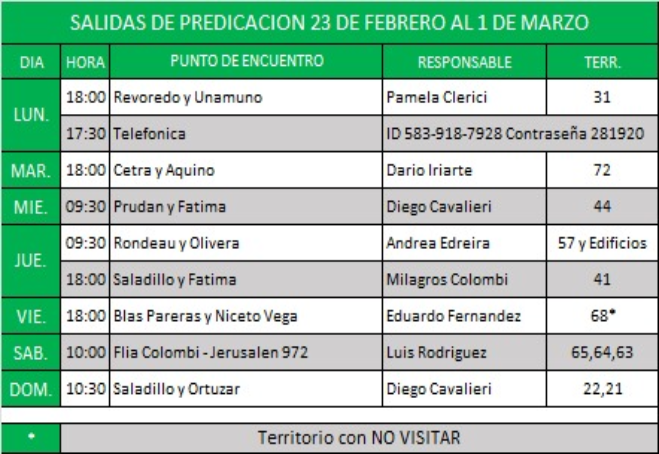
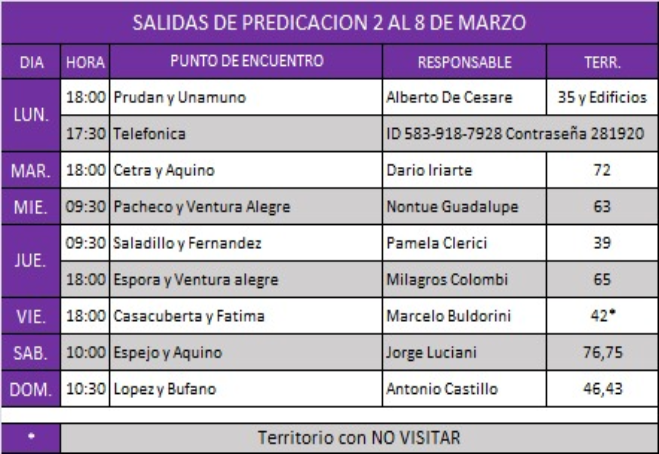
actualizo salida, limpieza y programa

diff --git a/pages/programaSemanal/programaSemanal.html b/pages/programaSemanal/programaSemanal.html
@@ -39,8 +39,8 @@
     <main>
         <section class="reuSemanal">
             <h2> Programa para la reunión entre semana</h2>
-            <img src="./asignacionesFebrero1.png" alt="">
-            <img src="./asignacionesFebrero2.png" alt="">
+            <img src="./asignacionesMarzo1.png" alt="">
+            <img src="./asignacionesMarzo2.png" alt="">
         </section>
     </main>
     <footer>
